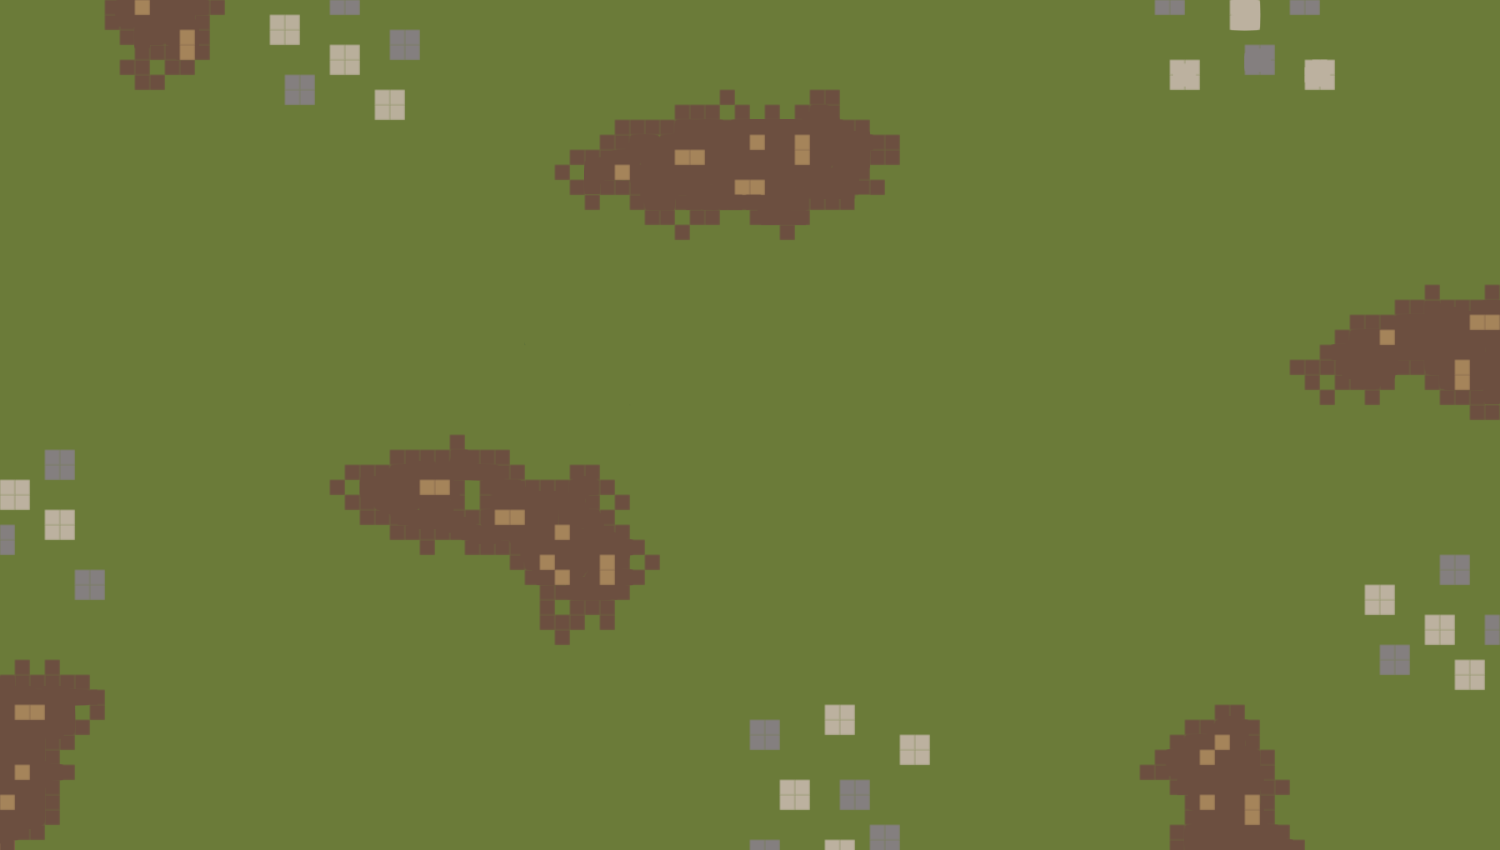
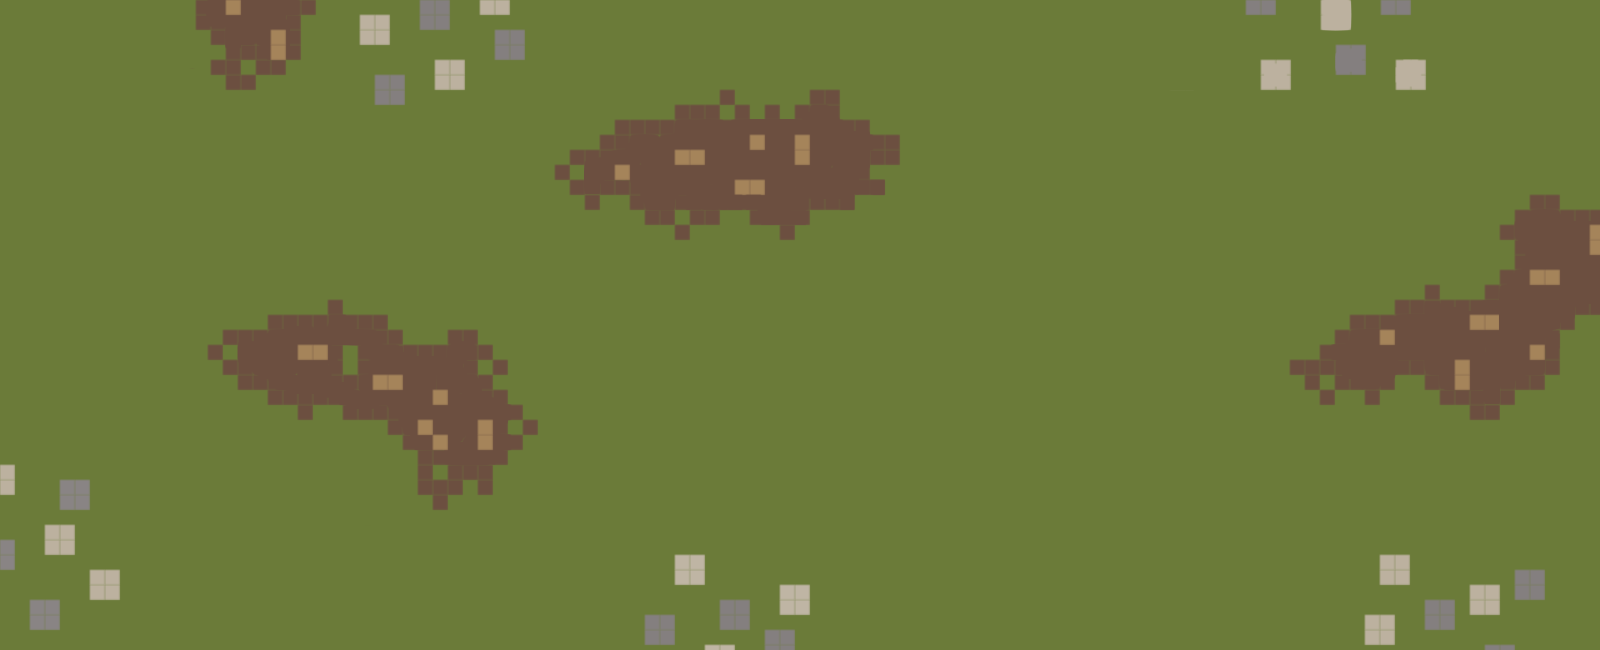
Map angepasst | Spawn Punkte gesetzt

diff --git a/script.js b/script.js
@@ -187,8 +187,8 @@
     var player;
     var feet;
     var frame=0;
-    var playerX = 650;
-    var playerY = 300;
+    var playerX;
+    var playerY;
     var feetX = playerX;
     var feetY = playerY;
     var schrittweite;
@@ -208,10 +208,35 @@
 
     //Gegner
     var enemySpeed = 2;
-    var activeEnemys = [];
+    var activeEnemies = [];
     var zombieWalk;
     var zombieAttack;
     var slainEnemies = 0;
+
+    var maxActiveEnemies = 6; 
+
+    var enemySpawnPoints = [
+        {
+            x: -80, 
+            y: 500
+        },
+        {
+            x: 400, 
+            y: -80
+        },
+        {
+            x: 1300, 
+            y: -80
+        },
+        {
+            x: 700, 
+            y: 650
+        },
+        {
+            x: 1400, 
+            y: 650
+        },
+    ]
 
     //einzelne Tastenanschläge speichern
     var upKey;
@@ -269,27 +294,25 @@
     const tileW = 50; 
     const tileH = 50; 
 
-    const gridRows = 15; 
-    const gridCols = 28;
+    const gridRows = 13; 
+    const gridCols = 32;
 
     var activeWalls = []; 
 
     var initalMap = [
-        [0,0,'x',0,0,0,0,0,0,0,0,0,0,0,'x',0,0,0,0,0,0,'x',0,,0,0,0,0],
-        [0,0,0,0,0,0,0,0,0,0,0,0,0,0,0,0,0,0,0,0,0,0,0,0,0,0,0,0],
-        [0,0,0,0,0,0,0,0,0,0,0,0,0,0,0,0,0,0,0,0,0,0,0,0,0,0,0,0],
-        [0,0,0,0,0,0,0,'x',0,0,0,0,0,0,0,0,0,0,0,0,0,0,0,0,0,0,0,0],
-        [0,0,0,0,0,0,0,0,0,0,0,0,0,0,0,0,0,0,0,0,0,0,0,0,0,0,0,0],
-        [0,0,0,0,0,0,0,0,0,0,0,0,0,0,0,0,0,0,0,0,0,0,0,0,0,0,0,0],
-        [0,0,0,0,0,0,0,0,0,0,0,0,0,0,0,0,0,0,0,0,0,'x',0,0,0,0,0,0],
-        [0,0,0,0,0,0,0,0,0,0,0,0,0,0,0,0,0,0,0,0,0,0,0,0,0,0,0,0],
-        ['x',0,0,0,0,0,0,0,0,0,0,0,0,0,0,0,0,0,0,0,0,0,0,0,0,0,0,0],
-        [0,0,0,0,0,0,0,0,0,0,0,0,0,0,0,0,0,0,0,0,0,0,0,0,0,0,0,0],
-        [0,0,0,0,0,0,'x',0,0,0,0,0,0,0,0,0,0,0,0,0,0,0,0,0,0,'x',0,0],
-        [0,0,0,0,0,0,0,0,0,0,0,0,0,0,0,0,0,0,0,0,0,0,0,0,0,0,0,0],
-        [0,0,0,0,0,0,0,0,0,0,0,0,0,0,0,0,0,'x',0,0,0,0,0,0,0,0,0,0],
-        [0,0,'x',0,0,0,0,0,0,0,0,0,0,0,0,0,0,0,0,0,0,0,0,0,0,0,0,0,0],
-        [0,0,0,0,0,0,0,0,0,0,0,0,0,0,0,0,0,0,0,0,0,0,0,0,0,0,0,0]
+        [0,0,'x',0,0,0,0,0,0,0,0,0,0,0,'x',0,0,0,0,0,0,'x',0,0,0,0,0,0,0,0,0,0],
+        [0,0,0,0,0,0,0,0,0,0,0,0,0,0,0,0,0,0,0,0,0,0,0,0,0,0,0,0,0,0,0,0],
+        [0,0,0,0,0,0,0,0,0,0,0,0,0,0,0,0,0,0,0,0,0,0,0,0,0,0,0,0,0,0,0,0],
+        [0,0,0,0,0,0,0,'x',0,0,0,0,0,0,0,0,0,0,0,0,0,0,0,0,0,0,0,0,'x',0,0,0],
+        [0,0,0,0,0,0,0,0,0,0,0,0,0,0,0,0,0,0,0,0,0,0,0,0,0,0,0,0,0,0,0,0],
+        [0,0,0,0,0,0,0,0,0,0,0,0,0,0,0,0,0,0,0,0,0,0,'x',0,0,0,0,0,0,0,0,0],
+        ['x',0,0,0,0,0,0,0,0,0,0,0,0,0,0,0,0,0,0,0,0,0,0,0,0,0,0,0,0,0,0,0],
+        [0,0,0,0,0,0,0,0,0,0,0,0,0,0,0,0,0,0,0,0,0,0,0,0,0,0,0,0,0,0,0,0],
+        [0,0,0,0,0,0,0,0,0,0,0,0,'x',0,0,0,0,0,0,0,0,0,0,0,0,0,0,0,0,0,0,0],
+        [0,0,0,0,0,0,0,0,0,0,0,0,0,0,0,0,0,0,0,0,0,0,0,0,0,0,0,0,0,0,0,0],
+        [0,0,0,0,0,0,'x',0,0,0,0,0,0,0,0,0,0,0,0,0,0,0,0,'x',0,0,0,0,0,0,0,0],
+        [0,0,0,0,0,0,0,0,0,0,0,0,0,0,0,0,0,0,0,0,0,0,0,0,0,0,0,0,0,0,0,'x'],
+        [0,0,0,0,0,0,0,0,0,0,0,0,0,0,0,0,0,'x',0,0,0,0,0,0,0,0,0,0,0,0,0,0]
     ]; 
 
     var map = [];
@@ -363,6 +386,8 @@ function init() {
 
     //player
     player = document.getElementById("handgun");
+    playerX = canvas.width / 2;
+    playerY = canvas.height / 2; 
     //playerX -= player.width/2;
     //playerY -= player.height/2;
 
@@ -459,7 +484,6 @@ function generateMap(){
                             if(initalMap[eachRow + eachRowMapTeil] !== undefined && initalMap[eachRow + eachRowMapTeil][eachCol + eachColMapTeil] !== undefined) {
                                 initalMap[eachRow + eachRowMapTeil][eachCol + eachColMapTeil] = mapTeil[eachRowMapTeil][eachColMapTeil];
                             }
-                            
                         }
                     }
                 }else{
@@ -807,11 +831,11 @@ function calculatePositionBetweenEnemyAndPlayer(currentEnemy) {
     angle = Math.atan2(dyEnemy, dxEnemy);
 }
 
-function spawnEnemy (startX = 500, startY = 500){
+function spawnEnemy (startX = 500, startY = 500, enemySpawnPointIndex){
     // Erstelle ein neues Zombieobjekt mit der Richtung und Position des Spielers
     var enemy = {
-        x: 500,
-        y: 500,
+        x: startX,
+        y: startY,
         dx: 0,
         dy: 0,
         health: 100,
@@ -830,11 +854,13 @@ function spawnEnemy (startX = 500, startY = 500){
         },
         evadeDx: 0,
         evadeDy: 0, 
-        evadeTime: 0
+        evadeTime: 0,
+        enemySpawnPointIndex: enemySpawnPointIndex,
+        spawnTime: 42
     };
 
     // Füge den Schuss zum Array der aktiven Schüsse hinzu
-    activeEnemys.push(enemy);
+    activeEnemies.push(enemy);
 }
 
 function calculateDistance(enemyX, enemyY, x = 0, y = 0){
@@ -844,63 +870,75 @@ function calculateDistance(enemyX, enemyY, x = 0, y = 0){
 
 function drawEnemy (){
 
-    for (let j = 0; j < activeEnemys.length; j++) {
-        var enemy = activeEnemys[j];
+    for (let j = 0; j < activeEnemies.length; j++) {
+        var enemy = activeEnemies[j];
         calculatePositionBetweenEnemyAndPlayer(enemy);
         enemy.dx = Math.cos(angle) * enemySpeed;
         enemy.dy = Math.sin(angle) * enemySpeed; 
 
         if(enemy.health > 0){
-            if(borderCheck(enemy.x + enemy.dx, enemy.y + enemy.dy, hitboxEnemy)){
-                enemy.x += enemy.dx;
-                enemy.y += enemy.dy;
-            } 
-            else {
-                let arrayDistance = [];
 
-                // Potentielle Bewegungen in vier Richtungen
-                let potentialMoves = [
-                    { x: enemySpeed, y: 0 },
-                    { x: -enemySpeed, y: 0 },
-                    { x: 0, y: enemySpeed },
-                    { x: 0, y: -enemySpeed }
-                ];
-
-                // Überprüfung jeder möglichen Bewegung
-                for (let move of potentialMoves) {
-                    if (borderCheck(enemy.x + move.x, enemy.y + move.y, hitboxEnemy)) {
-                        let distance = calculateDistance(enemy.x + move.x, enemy.y + move.y);
-                        arrayDistance.push({ ...move, distance });
+            if(enemy.spawnTime > 0){
+            
+                switch(enemy.enemySpawnPointIndex){
+                    case 0: enemy.x += enemySpeed;break; 
+                    case 1: enemy.y += enemySpeed;break;
+                    case 2: enemy.y += enemySpeed;break;
+                    case 3: enemy.y -= enemySpeed;break;
+                    case 4: enemy.y -= enemySpeed;break; 
+                }
+                enemy.spawnTime--;
+            } else {
+                if(borderCheck(enemy.x + enemy.dx, enemy.y + enemy.dy, hitboxEnemy)){
+                    enemy.x += enemy.dx;
+                    enemy.y += enemy.dy;
+                } 
+                else {
+                    let arrayDistance = [];
+    
+                    // Potentielle Bewegungen in vier Richtungen
+                    let potentialMoves = [
+                        { x: enemySpeed, y: 0 },
+                        { x: -enemySpeed, y: 0 },
+                        { x: 0, y: enemySpeed },
+                        { x: 0, y: -enemySpeed }
+                    ];
+    
+                    // Überprüfung jeder möglichen Bewegung
+                    for (let move of potentialMoves) {
+                        if (borderCheck(enemy.x + move.x, enemy.y + move.y, hitboxEnemy)) {
+                            let distance = calculateDistance(enemy.x + move.x, enemy.y + move.y);
+                            arrayDistance.push({ ...move, distance });
+                        }
+                    }
+    
+                    let tempDx;
+                    let tempDy;
+    
+                    // Finden der besten Bewegung (die zum Spieler führt)
+                    if (arrayDistance.length > 0) {
+                        let bestMove = arrayDistance.reduce((min, move) => move.distance < min.distance ? move : min);
+    
+                        tempDx = bestMove.x;
+                        tempDy = bestMove.y;
+                    }
+    
+                    if(enemy.evadeTime > 0 && borderCheck(enemy.x + enemy.evadeDx, enemy.y + enemy.evadeDy, hitboxEnemy)) {
+                        // Wenn eine Ausweichbewegung aktiv ist, diese nutzen
+                        enemy.x += enemy.evadeDx;
+                        enemy.y += enemy.evadeDy;
+                        enemy.evadeTime--;
+                    } else if (tempDx !== undefined && tempDy !== undefined) {
+                        // Wenn keine Ausweichbewegung aktiv ist, aber eine alternative Bewegung möglich ist
+                        enemy.x += tempDx;
+                        enemy.y += tempDy;
+                        // Ausweichbewegung speichern und Zeit setzen
+                        enemy.evadeDx = tempDx;
+                        enemy.evadeDy = tempDy;
+                        enemy.evadeTime = 90; // Zeit für die Ausweichbewegung (kann angepasst werden)
                     }
                 }
-
-                let tempDx;
-                let tempDy;
-
-                // Finden der besten Bewegung (die zum Spieler führt)
-                if (arrayDistance.length > 0) {
-                    let bestMove = arrayDistance.reduce((min, move) => move.distance < min.distance ? move : min);
-
-                    tempDx = bestMove.x;
-                    tempDy = bestMove.y;
-                }
-
-                if(enemy.evadeTime > 0 && borderCheck(enemy.x + enemy.evadeDx, enemy.y + enemy.evadeDy, hitboxEnemy)) {
-                    // Wenn eine Ausweichbewegung aktiv ist, diese nutzen
-                    enemy.x += enemy.evadeDx;
-                    enemy.y += enemy.evadeDy;
-                    enemy.evadeTime--;
-                } else if (tempDx !== undefined && tempDy !== undefined) {
-                    // Wenn keine Ausweichbewegung aktiv ist, aber eine alternative Bewegung möglich ist
-                    enemy.x += tempDx;
-                    enemy.y += tempDy;
-                    // Ausweichbewegung speichern und Zeit setzen
-                    enemy.evadeDx = tempDx;
-                    enemy.evadeDy = tempDy;
-                    enemy.evadeTime = 90; // Zeit für die Ausweichbewegung (kann angepasst werden)
-                }
-            }
-            
+            }            
 
             var zombieAngle = angle * (180 / Math.PI) - 5;
             ctx.save();
@@ -943,7 +981,7 @@ function drawEnemy (){
             ctx.rect(enemy.x, enemy.y, hitboxEnemy.width, hitboxEnemy.height, 10);
             ctx.stroke();
         }else{
-            activeEnemys.splice(j,1);
+            activeEnemies.splice(j,1);
             slainEnemies++;
             j--;
         }
@@ -951,7 +989,7 @@ function drawEnemy (){
 }
 
 function attackPlayer(){
-    activeEnemys.forEach((enemy)=>{
+    activeEnemies.forEach((enemy)=>{
         if(isPlayerInAttackRange(enemy) && !enemy.isOnCooldown){
             enemy.lastAttack = Date.now();
             enemy.enemyAttackAnimation.isPlaying = true;
@@ -973,7 +1011,7 @@ function isPlayerInAttackRange(enemy, additionalRange = 0){
 }
 
 function updateEnemyAttackCooldown(){
-    activeEnemys.forEach((enemy)=>{
+    activeEnemies.forEach((enemy)=>{
         if(!enemy.isOnCooldown){
             return;
         } 
@@ -986,7 +1024,7 @@ function updateEnemyAttackCooldown(){
 
 //Hier wird auch Schaden gemacht
 function updateEnemyAttackAnimation() {
-    activeEnemys.forEach((enemy) => {
+    activeEnemies.forEach((enemy) => {
         if (!enemy.enemyAttackAnimation.isPlaying) return;
 
         var now = Date.now();
@@ -998,7 +1036,7 @@ function updateEnemyAttackAnimation() {
                 enemy.enemyAttackAnimation.currentFrame = 0;
                 enemy.enemyAttackAnimation.isPlaying = false; // Stop the animation after one cycle
 
-                activeEnemys.forEach((enemy) => {
+                activeEnemies.forEach((enemy) => {
                     if (enemy.damagePending) {
                         if(isPlayerInAttackRange(enemy, 30)){
                             inventory.health -= 5;
@@ -1012,10 +1050,10 @@ function updateEnemyAttackAnimation() {
 }
 
 function enemyHit (){
-    for (let j = 0; j < activeEnemys.length; j++) {
+    for (let j = 0; j < activeEnemies.length; j++) {
         for (let i = 0; i < activeShots.length; i++) {
-            if(hitCheck(activeEnemys[j], activeShots[i])){
-                activeEnemys[j].health -= activeShots[i].damage;
+            if(hitCheck(activeEnemies[j], activeShots[i])){
+                activeEnemies[j].health -= activeShots[i].damage;
                 activeShots.splice(i, 1);
                 i--;
             }
@@ -1083,7 +1121,7 @@ function updateMeleeAttackAnimation() {
 
         if(meleeAttackAnimation.currentFrame === 6){
             let enemyHasBeenHit = false;
-            activeEnemys.forEach((enemy, index)=>{
+            activeEnemies.forEach((enemy, index)=>{
                 if (isEnemyInMeleeRange(enemy)&&!enemyHasBeenHit) {
                     enemy.health -= knife.damage;
                     enemyHasBeenHit = true;
@@ -1468,7 +1506,11 @@ document.addEventListener('keydown', (event) => {
     }
 
     if(event.key === "j" || event.key === "J"){
-        spawnEnemy();
+
+        const enemySpawnPointIndex = Math.floor(Math.random() * enemySpawnPoints.length);
+        let enemySpawnPoint = enemySpawnPoints[enemySpawnPointIndex];
+
+        spawnEnemy(enemySpawnPoint.x, enemySpawnPoint.y, enemySpawnPointIndex);
     }
 
     if(event.key === "r" || event.key === "R"){
